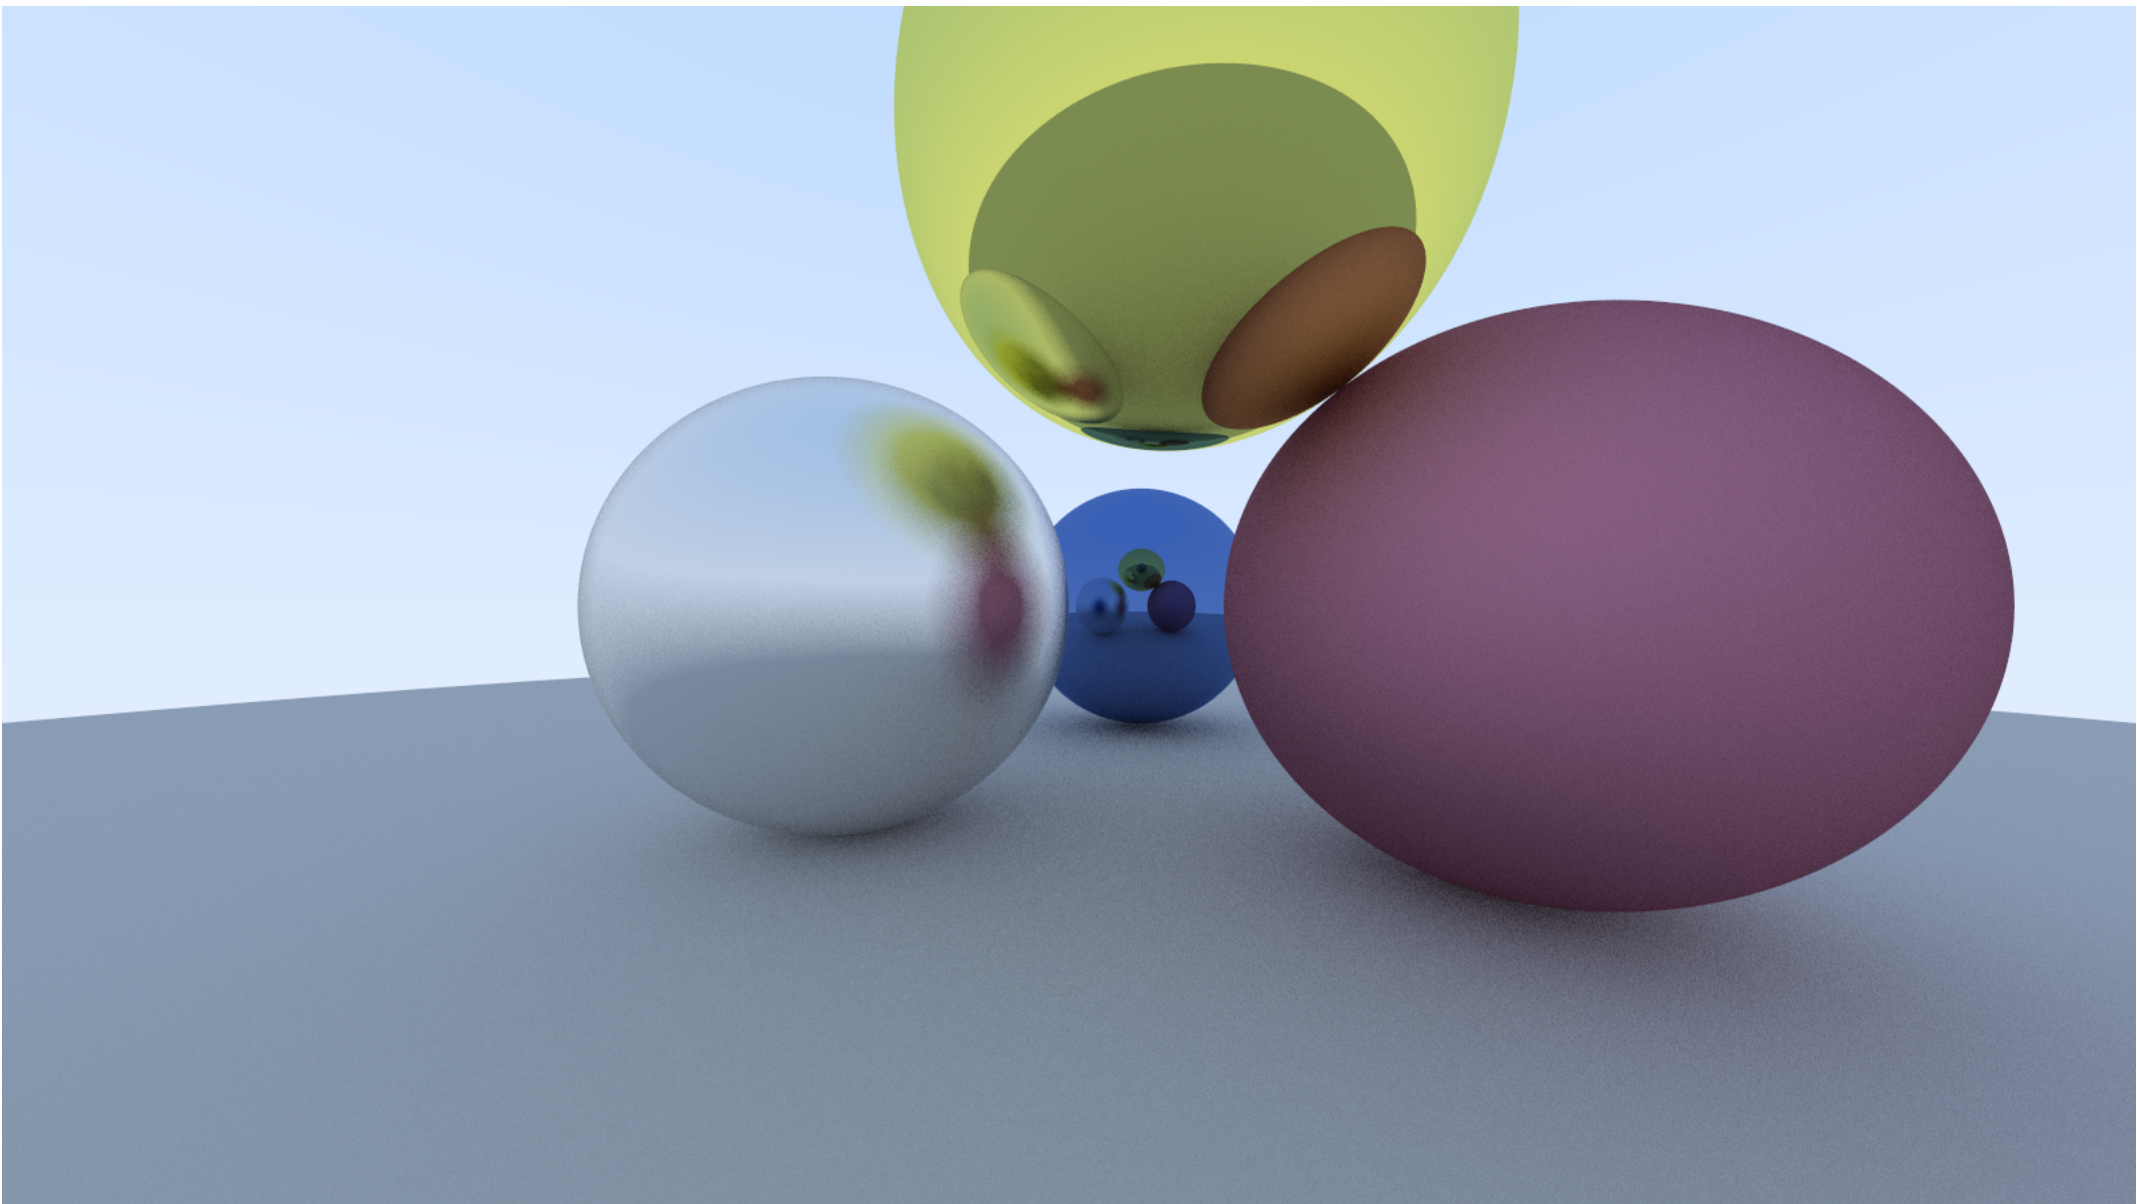
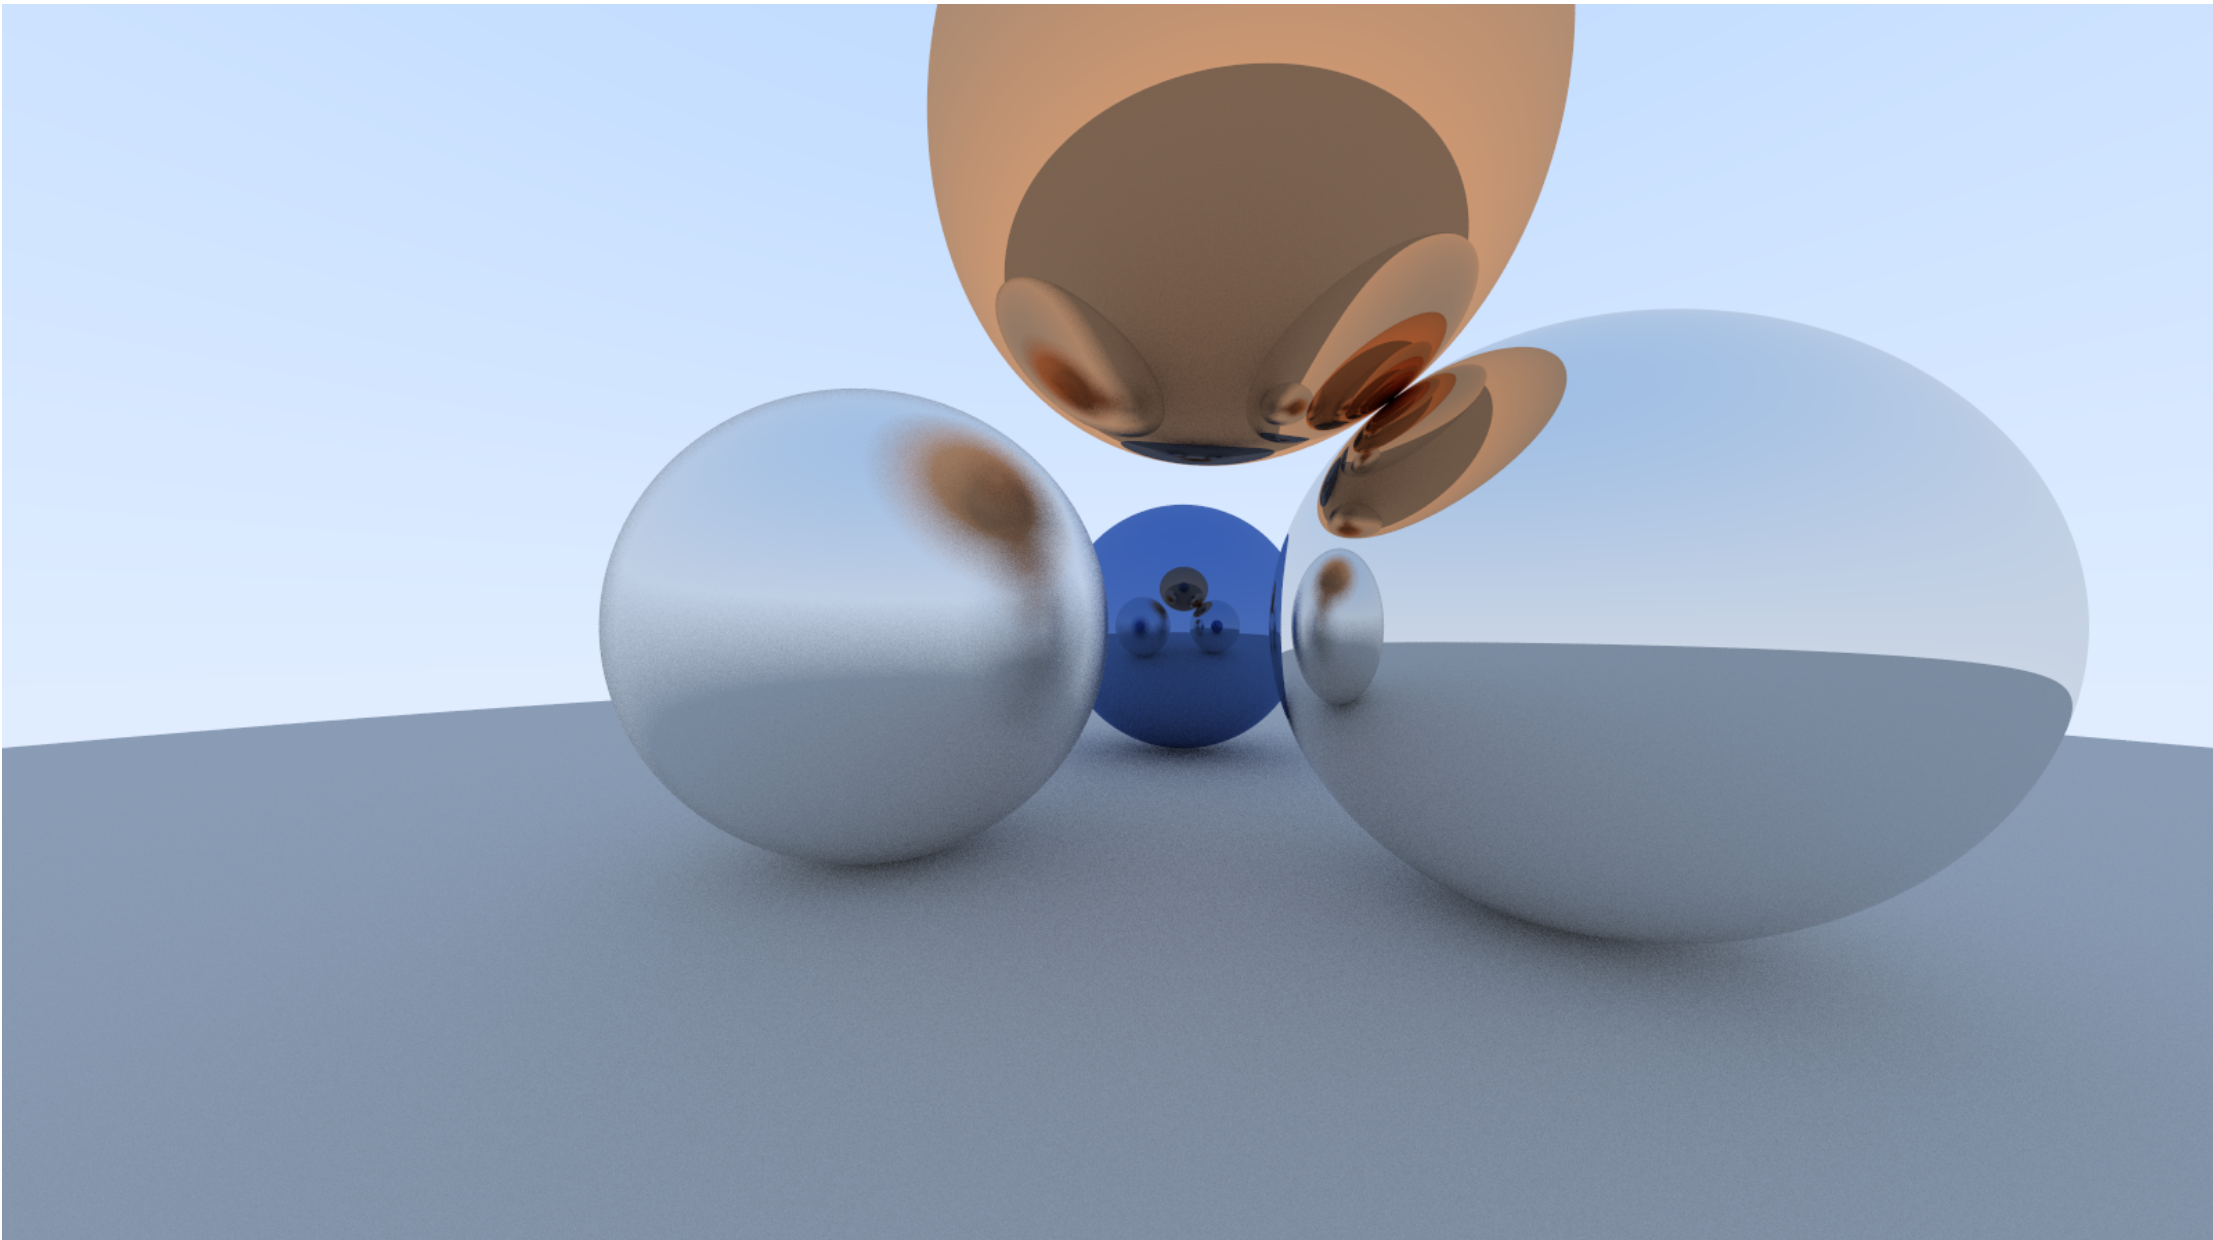
another image since this one looks cooler hehe

diff --git a/src/main.cpp b/src/main.cpp
@@ -14,8 +14,8 @@ int main(int argc, char* argv[]) {
     auto material_ground = make_shared<lambertian>(color(0.5, 0.5, 0.5));
     auto material_center = make_shared<metal>(color(0.1, 0.2, 0.5), 0.0);
     auto material_left = make_shared<metal>(color(0.8, 0.8, 0.8), 0.3);
-    auto material_right = make_shared<metal>(color(0.5, 0.2, 0.3), 1.0);
-    auto material_top = make_shared<metal>(color(0.8, 0.8, 0.2), 0.0);
+    auto material_right = make_shared<metal>(color(0.8, 0.8, 0.8), 0.0);
+    auto material_top = make_shared<metal>(color(0.8, 0.4, 0.2), 0.0);
 
     world.add(make_shared<sphere>(point3(0.0, -100.5, -1.0), 100.0, material_ground));
     world.add(make_shared<sphere>(point3(0.3, 0.0, -2.6), 0.5, material_center));
